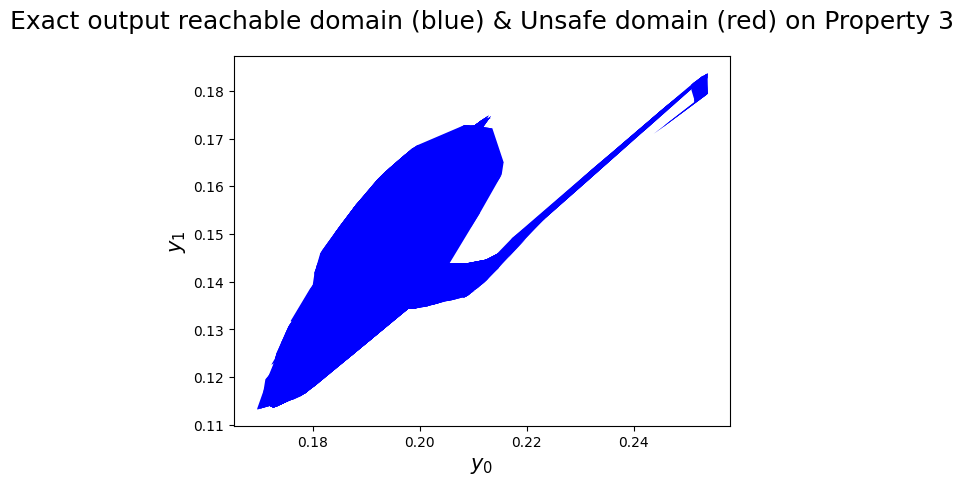
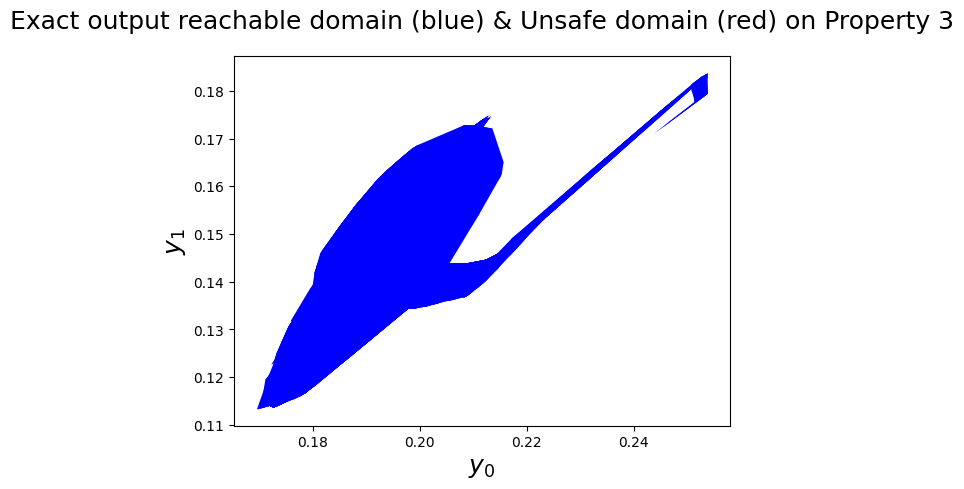
change images

diff --git a/examples/ACASXu/repair/main_reachable_domain.py b/examples/ACASXu/repair/main_reachable_domain.py
@@ -76,8 +76,8 @@ if __name__ == "__main__":
         plot_polytope2d(out_unsafe_vertices[:,[dim0,dim1]], ax, color='r', alpha=1.0, edgecolor='k', linewidth=0.0)
 
     ax.autoscale()
-    ax.set_xlabel('$y_'+str(dim0)+'$', fontsize=15)
-    ax.set_ylabel('$y_'+str(dim1)+'$', fontsize=15)
+    ax.set_xlabel('$y_'+str(dim0)+'$', fontsize=18)
+    ax.set_ylabel('$y_'+str(dim1)+'$', fontsize=18)
     plt.title('Exact output reachable domain (blue) & Unsafe domain (red) on'+' Property '+args.property, fontsize=18, pad=20)
     if not os.path.exists('images'):
         os.mkdir('images')
